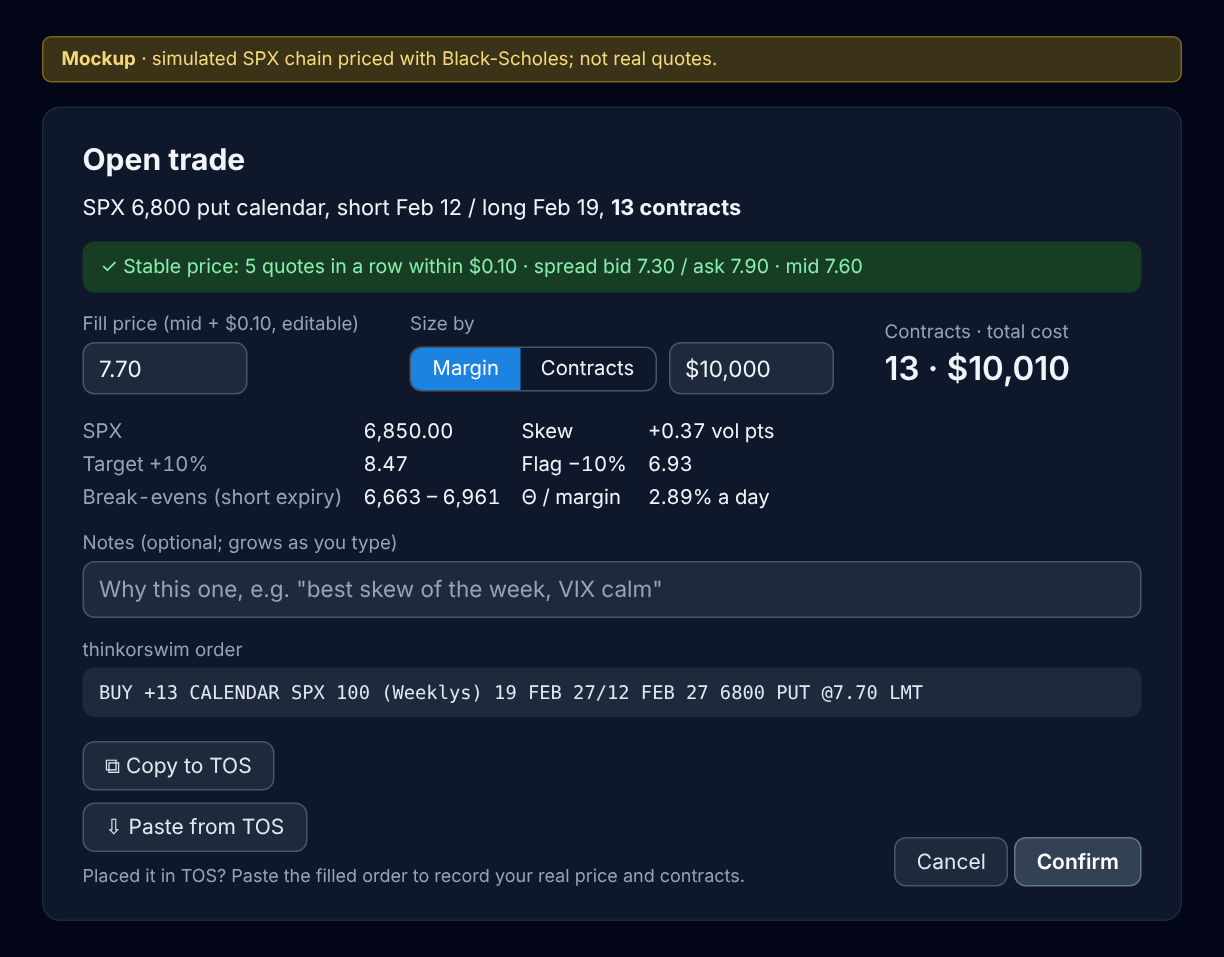
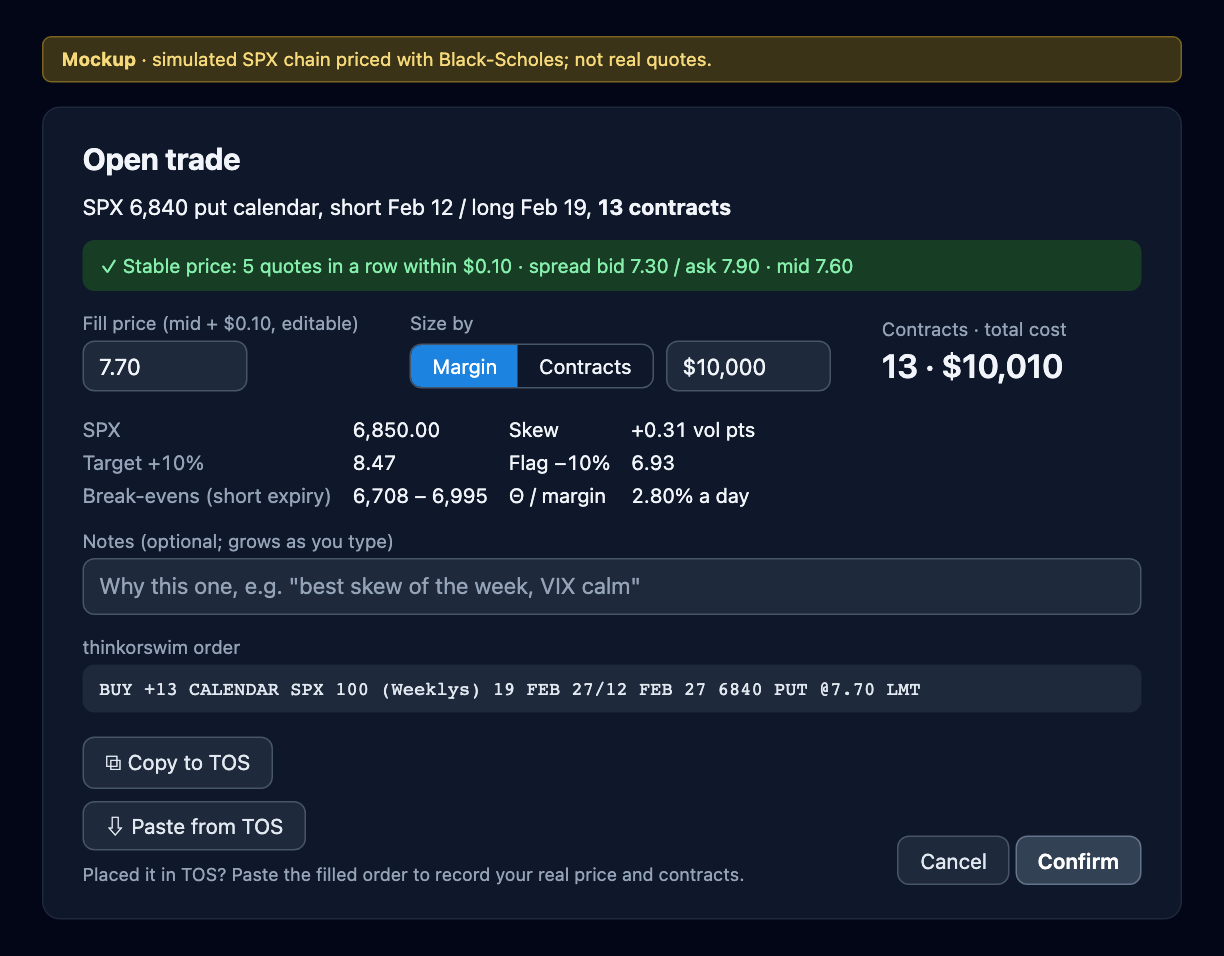
Docs and mockups for the week 3 follow-ups
README SQLite notes, mockups with the 40-50 delta band, Days Between note and aligned filter bar,
regenerated images, docs check (HANDOVER, PLAN boxes, comments).

Claude-Session: https://claude.ai/code/session_0129W5jH5FQwgpn25vBmWmwX

diff --git a/docs/mockups/render.py b/docs/mockups/render.py
@@ -74,7 +74,7 @@ tr.sel td{background:rgba(28,131,225,.16)} tr.sel td:first-child{box-shadow:inse
 .ptabs div{padding:7px 0;color:#94A3B8;font-size:13.5px;border-bottom:2px solid transparent} .ptabs div.on{color:#F1F5F9;border-bottom-color:#1C83E1;font-weight:600}
 .tiles{display:grid;grid-template-columns:repeat(4,minmax(0,1fr));gap:8px;margin-top:10px}
 .tile{min-width:0;overflow:hidden;border:1px solid #1E293B;border-radius:9px;padding:7px 10px;background:#0B1222} .tile .lab{font-size:11.5px;color:#94A3B8;white-space:nowrap} .tile .val{font-size:14.5px;font-weight:600;margin-top:2px;white-space:nowrap}
-.fbar{display:flex;align-items:center;gap:16px;padding:10px 16px;background:#0F172A;border:1px solid #1E293B;border-radius:12px;margin-bottom:8px}
+.fbar{display:flex;align-items:flex-start;gap:16px;padding:10px 16px;background:#0F172A;border:1px solid #1E293B;border-radius:12px;margin-bottom:8px}
 .fbar .grp{display:flex;align-items:center;gap:7px} .fbar .gl{font-size:12px;color:#94A3B8;white-space:nowrap}
 .fbar .chip{padding:3px 10px;font-size:12.5px}
 .strip{display:flex;gap:20px;align-items:baseline;padding:4px 4px 12px;font-size:13px;color:#94A3B8;white-space:nowrap} .strip b{color:#F1F5F9;font-weight:600}
@@ -283,6 +283,8 @@ def holdings_rows():
         close_px = round(t["value"] / (100 * n), 2)
         e_s = leg_quote(S0, K, d0, se, v0[0]); e_l = leg_quote(S0, K, d0, le, v0[1])
         out.append(dict(t, skew0=(e_s['iv'] - e_l['iv']) * 100, close_px=close_px, tos=tos_order("SELL", n, K, se, le, close_px), days=(today - d0).days, tdays=tdays, lo=lo, hi=hi, volpl=volpl, dpc=dpc, flags=" ".join(flags)))
+    for row, text in zip(out, NOTE_TEXTS):      # notes follow the trade order, so a change of delta target cannot orphan them
+        NOTE[row["K"]] = text
     return out
 
 # Holdings columns: key, label, shown by default, group. "Trade" is always shown and pinned on the left.
@@ -294,8 +296,9 @@ HCOLS = [("entered", "Entered", False, "Position"), ("days", "Days", True, "Posi
          ("siv", "Short IV", False, "Volatility"), ("liv", "Long IV", False, "Volatility"), ("skew", "Skew now", False, "Volatility"),
          ("skew0", "Skew at entry", True, "Volatility"), ("flag", "Flag", True, "Flags & notes"), ("notes", "Notes", True, "Flags & notes")]
 
-NOTE = {6730: "Entered after skew turned positive (+0.38); VIX 15.8. Sized to $10k.\nJan 11: up 7%. Holding for the +10% target; CPI Wednesday morning, decide before then.",
-        6740: "Took this one a day early; SPX was near the 20-day average."}   # one note per trade (by strike in the mockup)
+NOTE = {}   # strike -> note, filled in by holdings_rows(): the first trade and the second trade each get one
+NOTE_TEXTS = ["Entered after skew turned positive (+0.38); VIX 15.8. Sized to $10k.\nJan 11: up 7%. Holding for the +10% target; CPI Wednesday morning, decide before then.",
+              "Took this one a day early; SPX was near the 20-day average."]
 
 def note_box(text, placeholder, label):
     """A note box that grows with its text: one line when empty, as many lines as the note needs."""
@@ -374,7 +377,7 @@ def paste_dialog_body():
     lo, hi = break_evens(K, se, le, l1["iv"], px); skew0 = (s0["iv"] - l0["iv"]) * 100
     ok = lambda t: f'<div style="color:#4ADE80;font-size:13.5px;margin:3px 0">✓ {t}</div>'
     checks = "".join([ok(f"SPXW expiries {dstr(se)} and {dstr(le)} exist; long leg {(le - se).days} days after the short"),
-                      ok(f"Short leg {abs(s0['delta'])*100:.1f}Δ at entry, inside the 35–45Δ band"),
+                      ok(f"Short leg {abs(s0['delta'])*100:.1f}Δ at entry, inside the {config.DELTA_BAND_LABEL} band"),
                       ok("Not already in Holdings")])
     kv = lambda a, b: f"<td>{a}</td><td>{b}</td>"
     return f"""<div class="modal">
@@ -654,6 +657,12 @@ def risk_graph(K, se, le, today, price, n, v_s, v_l, s_now, now_pl=None, extra_d
     stats = dict(cost=price * 100 * n, max_profit=max(pl_exp), max_loss=-price * 100 * n, pl_now=pl_now[i_now], lo=lo, hi=hi, sd=sd)
     return svg(fig), stats
 
+def holiday_note():
+    """'Holiday Dec 25 (Christmas Day)' for each holiday near the Finder's DTE range, as the real Finder shows."""
+    today = NOW.date(); lo, hi = DTE_RANGE
+    near = sorted(h for h in HOLIDAYS if today + timedelta(days=lo) <= h <= today + timedelta(days=hi + 7))
+    return "".join(f'<div class="muted" style="font-size:11.5px">Holiday {h:%b} {h.day} ({config.HOLIDAY_NAMES[h.isoformat()]})</div>' for h in near)
+
 def filter_bar():
     lo, hi = DTE_RANGE; x = lambda d: (d - 7) / 49 * 150
     slider = (f'<div style="position:relative;width:150px;height:20px"><div style="position:absolute;top:8px;left:0;right:0;height:4px;background:#1E293B;border-radius:2px"></div>'
@@ -663,11 +672,12 @@ def filter_bar():
     grp = lambda label, body: f'<div class="grp"><span class="gl">{label}</span>{body}</div>'
     return (f'<div class="fbar">'
             + grp(f'Short DTE <b style="color:#F1F5F9">{lo}–{hi}</b>', slider)
-            + grp("Width", "".join(chip(w) for w in WIDTHS))
+            + (f'<div class="grp" style="flex-direction:column;align-items:flex-start;gap:4px"><div class="grp"><span class="gl">Days Between</span>'
+               + "".join(chip(w) for w in WIDTHS) + f'</div>{holiday_note()}</div>')
             + grp("Strikes", strike_chip("10") + strike_chip("25"))
             + grp("Size by", f'<div class="seg"><span class="on" style="padding:4px 10px;font-size:12.5px">Margin</span><span style="padding:4px 10px;font-size:12.5px">Contracts</span></div>'
                   f'<div class="input" style="width:92px;padding:4px 8px;font-size:13px">{money(MARGIN)}</div>')
-            + f'<div style="margin-left:auto" class="btnrow"><span class="muted" style="font-size:12px;white-space:nowrap">Updated 11:05:12 AM</span><span class="btn primary" style="padding:6px 14px">↻ Refresh</span></div></div>')
+            + f'<div style="margin-left:auto;align-self:center" class="btnrow"><span class="muted" style="font-size:12px;white-space:nowrap">Updated 11:05:12 AM</span><span class="btn primary" style="padding:6px 14px">↻ Refresh</span></div></div>')
 
 def status_strip(items):
     return '<div class="strip">' + "".join(f'<span>{a} <b>{b}</b></span>' for a, b in items) + '</div>'
@@ -682,7 +692,7 @@ def detail_ladder(P):
                  f"<td>{c.margin:,.0f}</td><td>{c.delta:.1f}</td><td>{c.gamma:.2f}</td><td>{c.theta:.0f}</td><td>{c.vega:.0f}</td>"
                  f"<td class='{cls(round(c.skew,2))}'>{sgn(c.skew)}</td><td>{'—' if abs(c.delta) < 0.5 else f'{c.td:.0f}'}</td><td>{c.theta_margin*100:.2f}%</td></tr>")
     return (f"<tr><td colspan=9 style='padding:0;border:none;text-align:left'><div class='ladder'>"
-            f"<div style='font-size:12px;color:#94A3B8;margin-bottom:4px'>All {len(P['sec'])} strikes of this pair in the 35–45Δ band · ★ nearest 40Δ · amber edge: highest skew · click a strike to select it</div>"
+            f"<div style='font-size:12px;color:#94A3B8;margin-bottom:4px'>All {len(P['sec'])} strikes of this pair in the {config.DELTA_BAND_LABEL} band · ★ nearest {config.DELTA_LABEL} · amber edge: highest skew · click a strike to select it</div>"
             f"<table><tr>{hdr}</tr>{rows}</table></div></td></tr>")
 
 def overview_box():
@@ -690,11 +700,11 @@ def overview_box():
     for r in ROWS: pairs.setdefault((r["short_exp"], r["long_exp"]), []).append(r)
     ov = []
     for (se, le), sec in pairs.items():
-        near = min(sec, key=lambda x: abs(abs(x["s"]["delta"]) - 0.40)); best = max(sec, key=lambda x: x["cal"].skew)
+        near = min(sec, key=lambda x: abs(abs(x["s"]["delta"]) - config.DELTA_TARGET)); best = max(sec, key=lambda x: x["cal"].skew)
         ov.append(dict(se=se, le=le, sec=sec, near=near, best=best, sel=any(x["is_sel"] for x in sec)))
     ov.sort(key=lambda p: p["best"]["cal"].skew, reverse=True); top = ov[0]
     hdr = "".join(f"<th{' class=l' if h == 'Short → Long' else ''}>{h}</th>" for h in
-                  ["Short → Long", "~40Δ", "Ctr", "Price", "Theta", "Vega", "Skew", "Θ/Mgn", "Best skew ▼"])
+                  ["Short → Long", f"~{config.DELTA_LABEL}", "Ctr", "Price", "Theta", "Vega", "Skew", "Θ/Mgn", "Best skew ▼"])
     body = ""
     for w in sorted({p["near"]["width"] for p in ov}):
         seg = [p for p in ov if p["near"]["width"] == w]
@@ -707,7 +717,7 @@ def overview_box():
                      f"<td class='{cls(round(c.skew,2))}'>{sgn(c.skew)}</td><td>{c.theta_margin*100:.2f}%</td>"
                      f"<td class='{cls(round(p['best']['cal'].skew,2))}'>{sgn(p['best']['cal'].skew)} <span class=muted>@ {p['best']['strike']}</span></td></tr>")
             if p["sel"]: body += detail_ladder(p)
-    return (f'<div class="box"><div class="row" style="justify-content:space-between;align-items:baseline"><h3>Calendars <span class="muted" style="font-weight:400;font-size:12.5px">· one row per short/long pair at its ~40Δ strike · sized to {money(MARGIN)}</span></h3>'
+    return (f'<div class="box"><div class="row" style="justify-content:space-between;align-items:baseline"><h3>Calendars <span class="muted" style="font-weight:400;font-size:12.5px">· one row per short/long pair at its ~{config.DELTA_LABEL} strike · sized to {money(MARGIN)}</span></h3>'
             f'<span class="muted" style="font-size:12px">sorted by Best skew</span></div><table>{hdr and "<tr>" + hdr + "</tr>"}{body}</table>'
             f'<div class="hint">Click a pair to open its strikes underneath; click a strike to show it in the panel on the right. Amber edge: highest skew. Blue: selected. Headers sort within each width.</div></div>')
 

diff --git a/docs/mockups/data.py b/docs/mockups/data.py
@@ -8,6 +8,7 @@ from scipy.stats import norm
 from scipy.optimize import brentq
 
 sys.path.insert(0, str(Path(__file__).resolve().parents[2]))  # repo root
+from app.core import config  # the delta band and target the real Finder uses
 from app.core.calendar_math import Leg, Calendar  # the repo's own sizing/greeks/skew math
 
 R, Q = 0.040, 0.013
@@ -86,7 +87,7 @@ def leg_obj(q):
     return Leg(q["dte"], q["mark"], q["delta"], q["gamma"], q["theta"], q["vega"], q["iv"])
 
 
-def finder(S, now, atm_s, atm_l, band=(0.35, 0.45), width=7, friday=None, sets=STRIKE_SETS):
+def finder(S, now, atm_s, atm_l, band=config.DELTA_BAND, width=7, friday=None, sets=STRIKE_SETS):
     today = now.date()
     se, le = pick_expiries(today, width, friday)
     rows = []
@@ -103,7 +104,7 @@ def finder(S, now, atm_s, atm_l, band=(0.35, 0.45), width=7, friday=None, sets=S
         rows.append(dict(strike=K, s=s, l=l, cal=c,
                          bid=round(l["bid"] - s["ask"], 2), ask=round(l["ask"] - s["bid"], 2)))
     best = max(rows, key=lambda r: r["cal"].skew)
-    near = min(rows, key=lambda r: abs(abs(r["s"]["delta"]) - 0.40))
+    near = min(rows, key=lambda r: abs(abs(r["s"]["delta"]) - config.DELTA_TARGET))
     for r in rows:
         r["is_best_skew"] = r is best
         r["is_near_target_delta"] = r is near

diff --git a/app/core/services.py b/app/core/services.py
@@ -193,7 +193,7 @@ def _holiday_notes(dte_range) -> list[HolidayNote]:
 
 def diagnose_finder(dte_range=config.SHORT_DTE_DEFAULT, widths=config.WIDTHS_DEFAULT,
                     strike_sets=config.STRIKE_SETS, pair_index=None, tos=None) -> dict:
-    """Why do the break-evens differ from thinkorswim? Returns the inputs behind the ~40-delta row of
+    """Why do the break-evens differ from thinkorswim? Returns the inputs behind the target-delta row of
     one pair (default: the short nearest 30 DTE) and the break-evens under variants: no fill offset,
     zero carry (forward = spot), and Schwab's IV field instead of the mid-implied IVs.
 

diff --git a/app/view_models.py b/app/view_models.py
@@ -88,7 +88,7 @@ def status_strip(snap: FinderSnapshot) -> dict:
 def results_context(snap: FinderSnapshot, sort: str | None = None, open_key: str | None = None,
                     strike: float | None = None) -> dict:
     """Everything _results.html / _calendars_table.html need. With no selection given, the default pair is
-    open with its ~40-delta strike selected."""
+    open with its target-delta strike selected."""
     if open_key:
         short, _, long = open_key.partition("|")
         pair = find_pair(snap, short, long)

diff --git a/app/core/models.py b/app/core/models.py
@@ -73,7 +73,7 @@ class PairSummary(BaseModel):
     near_target_delta: CalendarRow | None = None
     best_skew: float | None = None
     best_skew_strike: float | None = None
-    break_evens: BreakEvens | None = None   # of the ~40-delta row, None if no forward could be built
+    break_evens: BreakEvens | None = None   # of the target-delta row, None if no forward could be built
     strike_count: int = 0
     rows: list[CalendarRow] = []
 

diff --git a/docs/PLAN.md b/docs/PLAN.md
@@ -15,7 +15,7 @@ The repo holds only this app. It starts from three working pieces:
 | File | What it gives you |
 | --- | --- |
 | `schwab_api.py` | Schwab login, weekly token refresh, chain pull (fixed in week 1) |
-| `calendar_math.py` | The Excel sheet's columns: Price, Contracts, Margin, Greeks, Skew, T/D, Θ/Mgn, with a 16-row self-test against a reference sheet |
+| `calendar_math.py` | The Excel sheet's columns: Price, Contracts, Margin, Greeks, Skew, T/D (theta ÷ the absolute value of position delta), Θ/Mgn, with a 16-row self-test against a reference sheet |
 | `README.md` | Schwab developer-app and callback-URL setup steps |
 
 ```
@@ -98,7 +98,7 @@ The filters:
 **Calendars table (left).** Press Refresh and it pulls the chain and fills it:
 - **One row per short/long pair**, at that pair's ~45Δ strike. The first cell shows both expiries ("Fri Feb 12 → Fri Feb 19") with the DTEs and the number of strikes under them; then the ~45Δ strike, Contracts, Price, Theta, Vega, Skew, Θ/Mgn and **Best skew** (the highest skew among the pair's strikes, and at which strike). Margin is in the strike rows and the panel (it is about the same for every row when sizing by margin).
 - **Split into one segment per width** (a header row such as "7-day width · 2 pairs"), narrowest first. Click a column header to sort within each segment, for example by Best skew.
-- **Click a pair and its strikes open underneath it** (▸ / ▾), indented with a blue edge: every strike from 35Δ to 45Δ with the sheet's columns (Strike, Short Δ, Contracts, Price, Margin, Delta, Gamma, Theta, Vega, Skew, T/D, Θ/Mgn). The strike nearest 40Δ is starred. T/D shows "—" when position delta is near zero, where it means nothing. One pair is open at a time.
+- **Click a pair and its strikes open underneath it** (▸ / ▾), indented with a blue edge: every strike from 40Δ to 50Δ with the sheet's columns (Strike, Short Δ, Contracts, Price, Margin, Delta, Gamma, Theta, Vega, Skew, T/D, Θ/Mgn). The strike nearest 40Δ is starred. T/D shows "—" when position delta is near zero, where it means nothing. One pair is open at a time.
 - **Markers instead of filled rows:** an amber left edge on the highest-skew pair and on the highest-skew strike in the open pair; a blue tint and blue left edge on the selected pair and strike. Rows have thin separators and no vertical gridlines; numbers are right-aligned with tabular digits; the header row stays in place while the table scrolls.
 - **Click a strike** to show it in the panel on the right.
 
@@ -370,14 +370,14 @@ Status (Nov 23): everything above is built and committed except the last box (a 
 
 ### Week 3 — Opening paper trades (Dec 8–14)
 
-Step-by-step version: [WEEK3.md](WEEK3.md).
+Step-by-step version: [WEEK3.md](WEEK3.md). `[x]` done, `[~]` partly done (see the Status section of WEEK3.md: the stability wait is switched off, the dialog has no Size By box of its own, Paste must match the dialog's calendar and has no fill-time box).
 
-- [ ] `trades` rows carry an `account` column (default "Paper"), ready for multiple accounts later
-- [ ] Open trade… in the Finder's panel opens a confirmation ("Open trade"), and Confirm saves the trade and its entry snapshot (time, SPX, VIX, VIX9D, short and long IV, skew, break-evens, Vol P&L at entry, width, short DTE, sizing) to the `trades` table
-- [ ] Stability check (5 quotes in 10 seconds within $0.10, spread ≤ 10% of mid) with a waiting reason and a 60-second keep-waiting prompt; fill at mid + $0.10 in an editable box, with a bid–ask warning and the manual-price tag
-- [ ] Size by override in the open dialog
-- [ ] Copy to TOS button in the open dialog (`tos_order` from the service)
-- [ ] Paste from TOS in the open dialog, below Copy to TOS: `parse_tos_order()` with tests (good lines and each kind of bad one), the checks, editable fill price and time, entry snapshot from the nearest saved refresh, `price_source = "pasted"`
+- [x] `trades` rows carry an `account` column (default "Paper"), ready for multiple accounts later
+- [x] Open trade… in the Finder's panel opens a confirmation ("Open trade"), and Confirm saves the trade and its entry snapshot (time, SPX, VIX, VIX9D, short and long IV, skew, break-evens, Vol P&L at entry, width, short DTE, sizing) to the `trades` table
+- [~] Stability check (5 quotes in 10 seconds within $0.10, spread ≤ 10% of mid) with a waiting reason and a 60-second keep-waiting prompt; fill at mid + $0.10 in an editable box, with a bid–ask warning and the manual-price tag
+- [~] Size by override in the open dialog
+- [x] Copy to TOS button in the open dialog (`tos_order` from the service)
+- [~] Paste from TOS in the open dialog, below Copy to TOS: `parse_tos_order()` with tests (good lines and each kind of bad one), the checks, editable fill price and time, entry snapshot from the nearest saved refresh, `price_source = "pasted"`
 - [ ] Risk profile tab in the Finder panel (moved from week 2, which was the fullest week):  `get_risk_profile()` (Today and At-short-expiry lines, profit/loss shading, ±1 SD band, break-evens, tiles) at `GET /api/risk-profile`, painted on canvas by `charts/riskgraph.js` (read-only: hover crosshair, zoom, pan)
 - [ ] ⓘ popovers on the Finder's tiles and controls (moved from week 2)
 

diff --git a/README.md b/README.md
@@ -15,7 +15,7 @@ A web app for finding and paper-trading ~45Δ SPX put calendars, using live opti
 | 3 | Opening paper trades: [plan](docs/WEEK3.md). The Open Trade dialog (live quote every 2 s, suggested fill, Confirm saves one `trades` row), Copy to TOS and Paste from TOS. The Finder now lists 40–50Δ strikes (target 45Δ). The stability wait is switched off for now. Not yet: risk profile tab, ⓘ popovers | Steps 1–7 done |
 | 4–6 | Holdings, closing, Performance | Planned |
 
-**Screens vs. the mockups.** The Finder in the running app follows the mockup below, with these differences: labels use Title Case; contracts are rounded to the nearest whole number (at least 1) instead of up; gamma and delta come from the model; and the filters refresh the table by themselves. The stability check in the Open Trade dialog tests each leg's bid-ask (at most 10% of that leg's price) rather than the whole calendar's, because the calendar's own bid-ask is the sum of both legs. The Finder now lists 40–50Δ strikes with 45Δ as the target (the screenshots still show 35–45Δ with 40Δ). The Holdings, Close, Performance and TOS screens are still mockups.
+**Screens vs. the mockups.** The Finder in the running app follows the mockup below, with these differences: labels use Title Case; contracts are rounded to the nearest whole number (at least 1) instead of up; gamma and delta come from the model; and the filters refresh the table by themselves. The stability check in the Open Trade dialog tests each leg's bid-ask (at most 10% of that leg's price) rather than the whole calendar's, because the calendar's own bid-ask is the sum of both legs. The Finder lists 40–50Δ strikes with 45Δ as the target, and the screenshots show that. The Holdings, Close, Performance and TOS screens are still mockups.
 
 **Contents:** [What it does](#what-it-does) · [Screenshots](#screenshots) · [Installation](#installation) · [Using VS Code](#using-vs-code) · [Project layout](#project-layout) · [Schwab API setup](#schwab-api-setup) · [Acknowledgments](#acknowledgments) · [License](#license)
 
@@ -72,8 +72,9 @@ The images are generated by code in [`docs/mockups/`](docs/mockups/README.md). T
 | [Schwab developer app](#schwab-api-setup) | live SPX option chains (not needed for the tests) | Yes, to use live data |
 | [VS Code](https://code.visualstudio.com) | editor | Recommended |
 | [Node.js 18+](https://nodejs.org) | running the JavaScript tests only (`node --test`); the app doesn't need it | Optional |
+| [SQLite command-line tool](https://sqlite.org/download.html) (`sqlite3`) | looking inside `data/paper_trades.db` by hand; the app itself does not need it | Optional |
 
-You don't need to install Python yourself: uv reads `.python-version` and fetches 3.12.
+You don't need to install Python yourself: uv reads `.python-version` and fetches 3.12. The database is SQLite, which is built into Python, so there is nothing to install or set up for the app: it creates `data/paper_trades.db` the first time it starts.
 
 **Install commands**
 
@@ -83,12 +84,14 @@ macOS:
 xcode-select --install          # Git
 brew install uv                 # or: curl -LsSf https://astral.sh/uv/install.sh | sh
 brew install node               # optional
+# sqlite3 (optional) is already on macOS
 ```
 
 Linux:
 
 ```bash
 curl -LsSf https://astral.sh/uv/install.sh | sh
+sudo apt install sqlite3        # optional; Fedora: sudo dnf install sqlite
 ```
 
 Windows (PowerShell):
@@ -97,7 +100,7 @@ Windows (PowerShell):
 powershell -c "irm https://astral.sh/uv/install.ps1 | iex"
 ```
 
-On Windows, install Git from <https://git-scm.com>.
+On Windows, install Git from <https://git-scm.com>. For the optional `sqlite3`: `winget install SQLite.SQLite`, or download the "sqlite-tools" zip from <https://sqlite.org/download.html>.
 
 ### Clone and install
 
@@ -114,6 +117,18 @@ uv run python -m app.core.calendar_math selftest          # expect "16/16 rows r
 mkdir -p data && uv run python -m app.core.schwab_api chain --demo \
     --out data/demo_chain.csv --smile data/demo_smile.csv  # parses a built-in sample chain, no network
 ```
+
+### Look inside the database (optional)
+
+After you have opened a paper trade (or pressed Refresh), this prints your trades and the Finder rows saved by Refresh:
+
+```bash
+sqlite3 -header -column data/paper_trades.db \
+  "select id, status, strike, contracts, open_fill, open_price_source, opened_at from trades;"
+sqlite3 data/paper_trades.db "select count(*) from finder_log;"
+```
+
+Without the command-line tool: `uv run python -c "import sqlite3; print(sqlite3.connect('data/paper_trades.db').execute('select * from trades').fetchall())"`. Close the app first if you want to edit anything; reading while it runs is fine.
 
 ### Run
 

diff --git a/HANDOVER.md b/HANDOVER.md
@@ -2,6 +2,13 @@
 
 Updated at the end of every work session (≤ 20 lines). Newest first.
 
+## 2026-11-23 — week 3 steps 1–7 built (needs your first run of the dialog)
+- Done and committed (one commit per plan step): leg symbols + stability check, `trades` table (schema v3), `quote_spread`/`open_trade` services, `/api/quote-spread` + `/api/trades`, Open Trade dialog, Copy to TOS, Paste from TOS. 241 py tests + 37 js tests pass in a sandbox; the route tests (FastAPI) and the dialog have NOT run in a browser yet.
+- Decided Nov 23: stability wait switched off (`config.REQUIRE_STABLE = False`); bid-ask limit is per leg; Finder lists 40–50Δ with 45Δ target (`near_target_delta`, `is_near_target_delta` column); T/D = theta / |delta|; Size By to Contracts starts at 10; DTE sliders push each other; holiday note under Days Between.
+- Not done: risk profile tab and ⓘ popovers (steps 8–9), the "Still not stable" Keep Waiting prompt, Paste for a different calendar / fill time, entry snapshot from `finder_log`, the wrap-up run of three real trades.
+- Yours: add `tests/fixtures/tos_order_samples.txt` (Copy/Paste format is from docs/PLAN.md, unchecked against real lines); re-run `uv run --group mockups python docs/mockups/render.py` and commit the new PNGs; check the holiday names in `config.HOLIDAY_NAMES`; push the local commits.
+- First run: `uv run pytest` (route tests run for the first time), then Finder → Refresh → Open Trade…, then `sqlite3 data/paper_trades.db "select * from trades;"`.
+
 ## 2026-11-23 — week 2 built (needs your first run)
 - Done and tested in a sandbox (166 py tests + 29 js tests): td dash near zero delta, IVs implied from mids, per-row break-evens, `get_spot`, `get_expirations`; `app/` FastAPI factory (`create_app`), `/api` health, spot, expirations, finder refresh/get, settings; SQLite `Store` (settings, `finder_log`, one row per strike); snapshots in memory (5, 10 min) and saved to data/snapshots.json (one file, newest 20); shared Python/JS formatters; Finder page (filters, status strip, Calendars table with strike rows, calendar panel with tiles and legs).
 - NOT run yet: the FastAPI layer (no FastAPI in the sandbox). First run: `uv sync` (commit `uv.lock`), `uv run pytest` (tests/test_routes.py runs for the first time), `node --test tests/js/*.test.mjs`, `uv run serve`, open http://127.0.0.1:8000.

diff --git a/docs/WEEK2.md b/docs/WEEK2.md
@@ -80,5 +80,5 @@ Week 1 was all `app/core/` (plain Python). This week adds the web layer around i
 3. **Spot, VIX and VIX9D from one `get_quotes` call**, not from the chain's `underlyingPrice`, so the status strip and `finder_log` use the quote Schwab updates most often.
 4. **Filters in `app/pages.py`** (Jinja filters and `page_context`), so the layout in CLAUDE.md doesn't gain a file.
 5. **Refresh is a POST** (`/api/finder/refresh`) because it writes `finder_log`; the GET only reads a stored snapshot.
-6. **T/D shows "—"** when the position delta is under 2 (`config.TD_MIN_DELTA`).
+6. **T/D shows "—"** when the position delta is under 2 (`config.TD_MIN_DELTA`). T/D is theta divided by the **absolute** position delta (changed in week 3), so it has the same sign as theta.
 7. **Open trade… is visible but disabled** this week, so the panel matches the mockup.
